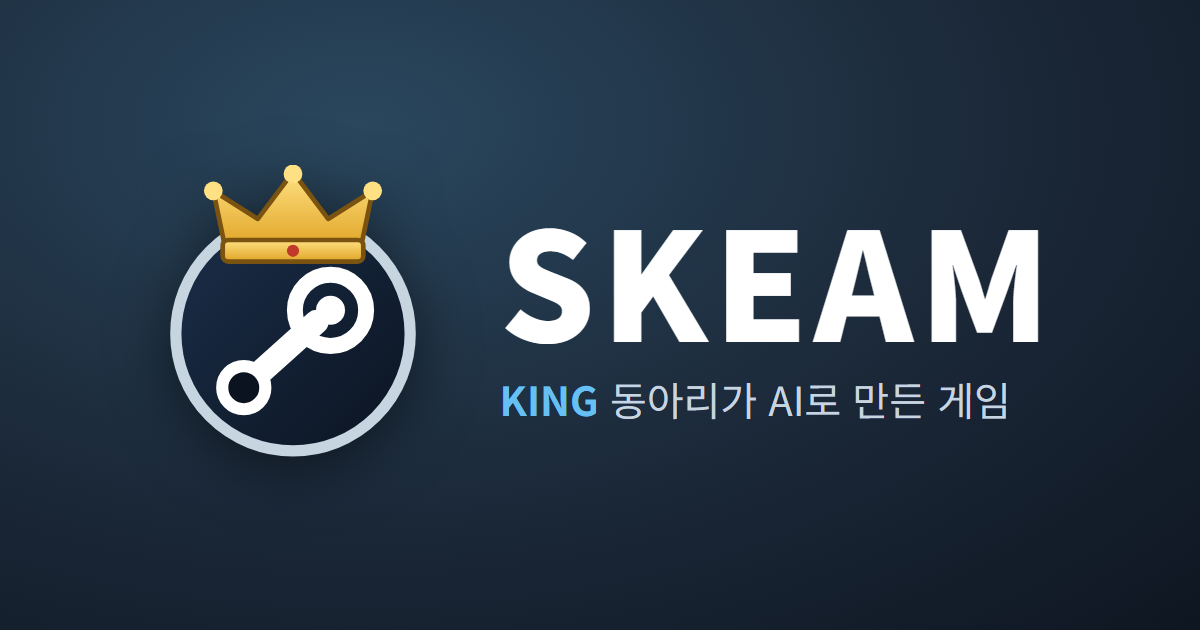
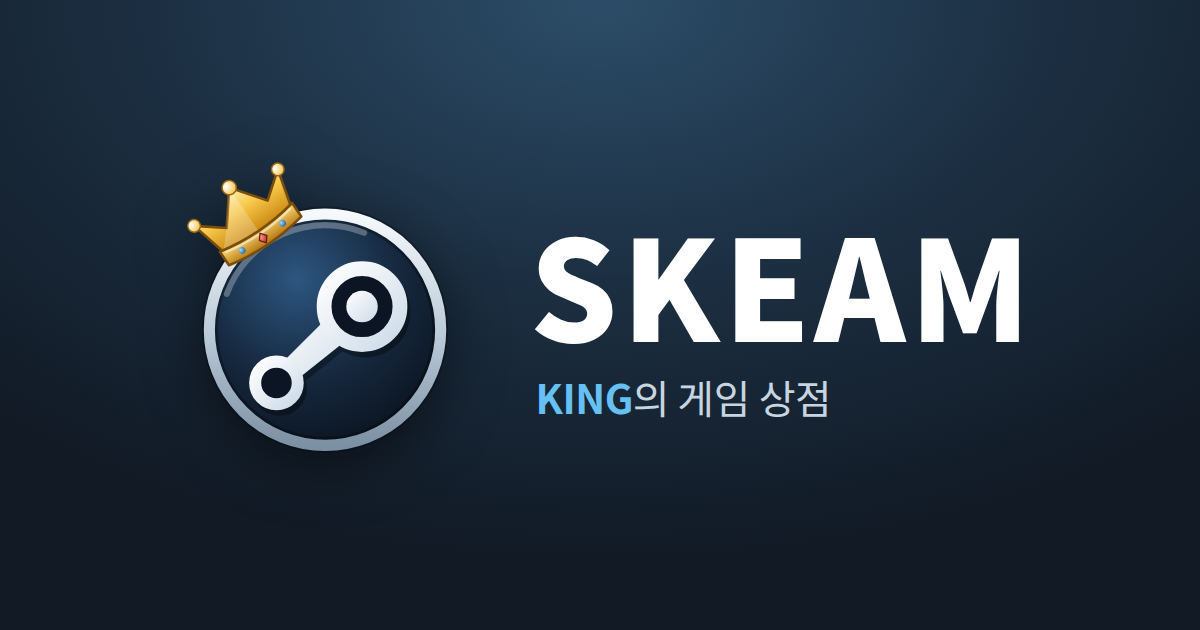
사이트 소개 문구를 'KING의 게임 상점'으로, SKEAM 아이콘 다시 그리기 (#23)
* 사이트 소개 문구: AI 게임 상점에서 KING 동아리 게임 상점으로

- KING 소개(커뮤니티): 동아리에서 받은 소개문 바탕으로 새로 씀
  (즐(KIN)거운 G(ame) 제작, 2011년 설립, 16기, 대표작, 목표). 한 줄 소개도 교체
- 카톡·디스코드 링크 카드: 설명 문구와 og.png("KING 게임 제작 동아리")를 바꾸고,
  og:image에 ?v=2를 붙여 새 그림을 다시 가져가게 함
- 첫 방문 계정 만들기 문구, README 첫 줄
- 게임 페이지 "AI 제작 정보"를 "제작 정보"로. AI 도구는 적은 게임에만 표시
- 등록 도우미: AI 도구 기본값(Claude Code) 없앰, "AI로 만들었다면" 안내
- 커뮤니티 머리글: 한 줄 소개가 오른쪽 왕관 아이콘에 가리지 않게 여백 추가

Claude-Session: https://claude.ai/code/session_01DRcvd7MQ8veMn4GcWrnbmF

* 링크 카드와 사이트 설명: 'KING의 게임 상점'으로 통일

카톡·디스코드 카드 이미지(og.png)와 설명, 사이트 description, README 첫 줄에서
'게임 제작 동아리' 수식어를 빼고 'KING의 게임 상점'으로 맞춤. 새 그림을
다시 가져가도록 og:image를 ?v=3으로 올림.

Claude-Session: https://claude.ai/code/session_01DRcvd7MQ8veMn4GcWrnbmF

* SKEAM 아이콘 다시 그리기: 미니 왕관을 비스듬히 얹고 질감 추가

- public/skeam-icon.svg: 원판에 은색 테두리와 가장자리 반사선, 막대가
  큰 관절 쪽으로 굵어지는 피스톤, 은은한 그림자. 왕관은 작게 줄여 원의
  왼쪽 위 테두리에 34도 기울여 얹고, 진주·사파이어·루비 장식
- 시작 애니메이션(Intro.tsx)도 같은 그림으로. 막대는 작은 관절에서
  자라나게 바꿈(채운 도형이라 선 그리기 애니메이션 대신)
- 카톡·디스코드 카드 이미지(og.png): 새 아이콘, 아이콘과 글자를 가운데로
  모음. og:image ?v=5

Claude-Session: https://claude.ai/code/session_01DRcvd7MQ8veMn4GcWrnbmF

---------

diff --git a/src/components/Intro.tsx b/src/components/Intro.tsx
@@ -125,16 +125,44 @@ export function Intro() {
     <div key={run} className={`intro ${leaving ? 'leaving' : ''}`} onPointerDown={() => setLeaving(true)} aria-hidden="true">
       <div className="intro-glow" />
       <div className="intro-stage">
-        <svg className="intro-mark" viewBox="-4 -6 72 72">
+        {/* Same drawing as public/skeam-icon.svg, split into parts that animate in. */}
+        <svg className="intro-mark" viewBox="-5.37 -4.54 70.84 70.84">
           <defs>
-            <linearGradient id="intro-disc" x1="0" y1="0" x2="1" y2="1">
-              <stop offset="0" stopColor="#1b2f4a" />
-              <stop offset="1" stopColor="#0b1320" />
+            <radialGradient id="intro-disc" cx="0.38" cy="0.28" r="0.85">
+              <stop offset="0" stopColor="#2d5680" />
+              <stop offset="0.5" stopColor="#16293f" />
+              <stop offset="1" stopColor="#090f19" />
+            </radialGradient>
+            <linearGradient id="intro-ring" x1="0" y1="0" x2="0" y2="1">
+              <stop offset="0" stopColor="#f5f9fc" />
+              <stop offset="0.55" stopColor="#b7c8d6" />
+              <stop offset="1" stopColor="#7c90a3" />
+            </linearGradient>
+            <linearGradient id="intro-metal" x1="0" y1="0" x2="1" y2="1">
+              <stop offset="0" stopColor="#ffffff" />
+              <stop offset="1" stopColor="#cddbe8" />
             </linearGradient>
             <linearGradient id="intro-gold" x1="0" y1="0" x2="0" y2="1">
-              <stop offset="0" stopColor="#ffe082" />
-              <stop offset="1" stopColor="#e0a526" />
+              <stop offset="0" stopColor="#fff1b8" />
+              <stop offset="0.45" stopColor="#f7c748" />
+              <stop offset="1" stopColor="#c88712" />
             </linearGradient>
+            <linearGradient id="intro-band" x1="0" y1="0" x2="0" y2="1">
+              <stop offset="0" stopColor="#fbdc7c" />
+              <stop offset="1" stopColor="#b3740c" />
+            </linearGradient>
+            <radialGradient id="intro-pearl" cx="0.35" cy="0.3" r="0.75">
+              <stop offset="0" stopColor="#ffffff" />
+              <stop offset="1" stopColor="#f1c44a" />
+            </radialGradient>
+            <radialGradient id="intro-ruby" cx="0.35" cy="0.3" r="0.75">
+              <stop offset="0" stopColor="#ff9a8f" />
+              <stop offset="1" stopColor="#a61f17" />
+            </radialGradient>
+            <radialGradient id="intro-sapphire" cx="0.35" cy="0.3" r="0.75">
+              <stop offset="0" stopColor="#9fdcff" />
+              <stop offset="1" stopColor="#1d63a6" />
+            </radialGradient>
             <linearGradient id="intro-shine" x1="0" y1="0" x2="1" y2="0">
               <stop offset="0" stopColor="#fff" stopOpacity="0" />
               <stop offset="0.5" stopColor="#fff" stopOpacity="0.85" />
@@ -142,26 +170,43 @@ export function Intro() {
             </linearGradient>
             <clipPath id="intro-clip">
               <circle cx="32" cy="36" r="26.2" />
-              <path d="M17.5 17.5 L15 5.5 L24.5 11.5 L32 1.5 L39.5 11.5 L49 5.5 L46.5 17.5 Z" />
-              <rect x="17" y="16" width="30" height="4.6" />
+              <path transform="translate(19.47 17.43) rotate(-34) scale(0.62)" d="M-14.2 -6.2 L-17.6 -19.4 L-8.6 -12.4 L0 -23.6 L8.6 -12.4 L17.6 -19.4 L14.2 -6.2 Q0 -3.4 -14.2 -6.2 Z" />
+              <path transform="translate(19.47 17.43) rotate(-34) scale(0.62)" d="M-15.2 -6.9 Q0 -3.8 15.2 -6.9 L15.2 -1.2 Q0 1.9 -15.2 -1.2 Z" />
             </clipPath>
           </defs>
           <circle className="i-pulse" cx="32" cy="36" r="25" />
-          <circle className="i-disc" cx="32" cy="36" r="25" fill="url(#intro-disc)" />
-          <circle className="i-ring" cx="32" cy="36" r="25" />
-          <path className="i-rod" d="M22.5 46.5 L37 33.5" />
-          <g className="i-big">
-            <circle cx="40" cy="31" r="7.6" fill="none" stroke="#fff" strokeWidth="3.4" />
-            <circle cx="40" cy="31" r="3.1" fill="#fff" />
+          <g className="i-disc">
+            <circle cx="32" cy="36" r="26.6" fill="#050910" opacity="0.35" />
+            <circle cx="32" cy="36" r="25" fill="url(#intro-disc)" />
+            <circle cx="32" cy="36" r="23.6" fill="none" stroke="#000" strokeOpacity="0.3" strokeWidth="0.8" />
           </g>
-          <circle className="i-small" cx="21.5" cy="47.5" r="4.6" fill="#0b1320" stroke="#fff" strokeWidth="2.6" />
-          <g className="i-crown">
-            <path d="M17.5 17.5 L15 5.5 L24.5 11.5 L32 1.5 L39.5 11.5 L49 5.5 L46.5 17.5 Z" fill="url(#intro-gold)" stroke="#7a5310" strokeWidth="1" strokeLinejoin="round" />
-            <rect x="17" y="16" width="30" height="4.6" rx="1.2" fill="url(#intro-gold)" stroke="#7a5310" strokeWidth="1" />
-            <circle className="i-gem" cx="15" cy="5.5" r="2" fill="#ffe082" />
-            <circle className="i-gem" cx="32" cy="1.9" r="2" fill="#ffe082" />
-            <circle className="i-gem" cx="49" cy="5.5" r="2" fill="#ffe082" />
-            <circle cx="32" cy="18.3" r="1.3" fill="#c0392b" />
+          <circle className="i-ring" cx="32" cy="36" r="25" />
+          <path className="i-edge" d="M10.76 28.27 A22.6 22.6 0 0 1 40.47 15.05" fill="none" stroke="#fff" strokeOpacity="0.28" strokeWidth="1.3" strokeLinecap="round" />
+          <g className="i-shadow" fill="#000" opacity="0.35" transform="translate(0.7 1.2)">
+            <path d="M22.97 49.14 L42.4 33.69 L37.6 28.31 L20.03 45.86 Z" />
+            <circle cx="40" cy="31" r="9.8" />
+            <circle cx="21.5" cy="47.5" r="5.9" />
+          </g>
+          <path className="i-rod" d="M22.97 49.14 L42.4 33.69 L37.6 28.31 L20.03 45.86 Z" fill="url(#intro-metal)" />
+          <g className="i-big">
+            <circle cx="40" cy="31" r="8.2" fill="#0b1524" stroke="url(#intro-metal)" strokeWidth="3.2" />
+            <circle cx="40" cy="31" r="3.4" fill="url(#intro-metal)" />
+          </g>
+          <circle className="i-small" cx="21.5" cy="47.5" r="4.6" fill="#0b1524" stroke="url(#intro-metal)" strokeWidth="2.6" />
+          {/* the transform sits on an outer group: the drop-in animation sets its own transform on .i-crown */}
+          <g transform="translate(19.47 17.43) rotate(-34) scale(0.62)">
+            <g className="i-crown">
+              <path d="M-14.2 -6.2 L-17.6 -19.4 L-8.6 -12.4 L0 -23.6 L8.6 -12.4 L17.6 -19.4 L14.2 -6.2 Q0 -3.4 -14.2 -6.2 Z" fill="url(#intro-gold)" stroke="#7a4d0b" strokeWidth="0.9" strokeLinejoin="round" />
+              <path d="M0 -23.6 L-8.6 -12.4 L-14.2 -6.2 Q-7 -4.8 0 -4.6 Z" fill="#fff" opacity="0.22" />
+              <path d="M-15.2 -6.9 Q0 -3.8 15.2 -6.9 L15.2 -1.2 Q0 1.9 -15.2 -1.2 Z" fill="url(#intro-band)" stroke="#7a4d0b" strokeWidth="0.9" strokeLinejoin="round" />
+              <path d="M-13.4 -5.6 Q0 -2.9 13.4 -5.6" fill="none" stroke="#fff" strokeOpacity="0.5" strokeWidth="0.8" strokeLinecap="round" />
+              <circle className="i-gem" cx="-17.6" cy="-19.4" r="2.2" fill="url(#intro-pearl)" stroke="#9a650c" strokeWidth="0.5" />
+              <circle className="i-gem" cx="0" cy="-23.6" r="2.5" fill="url(#intro-pearl)" stroke="#9a650c" strokeWidth="0.5" />
+              <circle className="i-gem" cx="17.6" cy="-19.4" r="2.2" fill="url(#intro-pearl)" stroke="#9a650c" strokeWidth="0.5" />
+              <circle cx="-8.5" cy="-2.9" r="1.15" fill="url(#intro-sapphire)" />
+              <circle cx="8.5" cy="-2.9" r="1.15" fill="url(#intro-sapphire)" />
+              <path d="M0 -4.4 L1.6 -2.4 L0 -0.3999999999999999 L-1.6 -2.4 Z" fill="url(#intro-ruby)" stroke="#6b120d" strokeWidth="0.4" />
+            </g>
           </g>
           <g clipPath="url(#intro-clip)">
             <rect className="i-shine" x="-30" y="-6" width="22" height="72" fill="url(#intro-shine)" transform="skewX(-20)" />

diff --git a/src/pages/AppPage.tsx b/src/pages/AppPage.tsx
@@ -206,46 +206,46 @@ function App({ g, site }: { g: Game; site: Site }) {
             </>
           )}
 
-          {/* A Steam release may not be an AI game at all; show the box only when there is something to say. */}
-          {(!g.steam || g.aiTools.length > 0 || g.devPeriod || g.aiNote) && (
-            <>
-              <h3 className="block-head" style={{ marginTop: 28 }}>
-                AI 제작 정보
-              </h3>
-              <div className="ai-box">
+          {/* Not every game here is made with AI: the AI line shows only when the creator named tools. */}
+          <>
+            <h3 className="block-head" style={{ marginTop: 28 }}>
+              제작 정보
+            </h3>
+            <div className="ai-box">
+              {g.aiTools.length > 0 && (
                 <div>
                   <div className="k">사용한 AI 도구</div>
-                  <div className="v">{g.aiTools.length ? g.aiTools.join(', ') : '적지 않음'}</div>
+                  <div className="v">{g.aiTools.join(', ')}</div>
                 </div>
-                <div>
-                  <div className="k">제작 기간</div>
-                  <div className="v">{g.devPeriod || '적지 않음'}</div>
-                </div>
-                {g.engine && (
-                  <div>
-                    <div className="k">엔진·도구</div>
-                    <div className="v">{g.engine}</div>
-                  </div>
-                )}
-                <div>
-                  <div className="k">실행 환경</div>
-                  <div className="v">
-                    {g.platform === 'windows'
-                      ? `Windows 64비트${g.downloadSize ? ` · ${g.downloadSize}` : ''}`
-                      : g.platform === 'steam'
-                        ? `Steam${steamOs(g) ? ` (${steamOs(g)})` : ''}`
-                        : '최신 크롬·엣지 브라우저'}
-                  </div>
-                </div>
-                {g.aiNote && (
-                  <div style={{ gridColumn: '1 / -1' }}>
-                    <div className="k">제작 후기</div>
-                    <div className="v">“{g.aiNote}”</div>
-                  </div>
-                )}
+              )}
+              <div>
+                <div className="k">제작 기간</div>
+                <div className="v">{g.devPeriod || '적지 않음'}</div>
               </div>
-            </>
-          )}
+              {g.engine && (
+                <div>
+                  <div className="k">엔진·도구</div>
+                  <div className="v">{g.engine}</div>
+                </div>
+              )}
+              <div>
+                <div className="k">실행 환경</div>
+                <div className="v">
+                  {g.platform === 'windows'
+                    ? `Windows 64비트${g.downloadSize ? ` · ${g.downloadSize}` : ''}`
+                    : g.platform === 'steam'
+                      ? `Steam${steamOs(g) ? ` (${steamOs(g)})` : ''}`
+                      : '최신 크롬·엣지 브라우저'}
+                </div>
+              </div>
+              {g.aiNote && (
+                <div style={{ gridColumn: '1 / -1' }}>
+                  <div className="k">제작 후기</div>
+                  <div className="v">“{g.aiNote}”</div>
+                </div>
+              )}
+            </div>
+          </>
 
           <div id="reviews">
             <Reviews endpoint={endpoint} gameId={g.id} title={g.title} />

diff --git a/src/pages/Register.tsx b/src/pages/Register.tsx
@@ -91,7 +91,7 @@ const empty: Form = {
   short: '',
   tags: '',
   controls: '',
-  aiTools: 'Claude Code',
+  aiTools: '',
   devPeriod: '',
   aiNote: '',
   engine: '',
@@ -441,14 +441,12 @@ function GameForm({ games, site, existing, existingAbout }: { games: Game[]; sit
             value={f.steam}
             onChange={(e) => {
               const v = e.target.value.trim()
-              // A Steam release isn't necessarily an AI game: drop the untouched default.
-              // Also the untouched ₩0 price, so the Steam price shows.
+              // Clear the untouched ₩0 price, so the Steam price shows.
               setF((x) => {
                 const fresh = STEAM_RE.test(v) && !STEAM_RE.test(x.steam)
                 return {
                   ...x,
                   steam: v,
-                  ...(fresh && x.aiTools === empty.aiTools ? { aiTools: '' } : {}),
                   ...(fresh && x.price === empty.price && x.discount === empty.discount ? { price: '', discount: '' } : {}),
                 }
               })
@@ -658,7 +656,9 @@ function GameForm({ games, site, existing, existingAbout }: { games: Game[]; sit
           </div>
           <div className="row2">
             <div className="field">
-              <label>사용한 AI 도구</label>
+              <label>
+                사용한 AI 도구 <small>AI로 만들었다면</small>
+              </label>
               <input value={f.aiTools} onChange={(e) => set('aiTools', e.target.value)} placeholder="Claude Code, Midjourney" />
             </div>
             <div className="field">
@@ -682,7 +682,7 @@ function GameForm({ games, site, existing, existingAbout }: { games: Game[]; sit
             <label>
               제작 후기 한 줄 <small>선택</small>
             </label>
-            <input value={f.aiNote} onChange={(e) => set('aiNote', e.target.value)} placeholder="AI한테 물리 엔진을 설명시키다 밤을 새웠다" />
+            <input value={f.aiNote} onChange={(e) => set('aiNote', e.target.value)} placeholder="마감 전날 보스전을 통째로 갈아엎었다" />
           </div>
         </Section>
 
@@ -969,7 +969,7 @@ function downloadTemplate(me: string) {
     tags: ['기본태그 목록에서 4~8개'],
     controls: '조작법 한 줄 (예: WASD 이동, 마우스 클릭)',
     engine: '엔진·도구 (예: Godot 4.7, Unity, HTML/JavaScript)',
-    ai_tools: ['Claude Code'],
+    ai_tools: ['AI로 만들었다면 사용한 AI 도구 (없으면 빈 목록)'],
     dev_period: '제작 기간 (예: 2주)',
     ai_note: '제작 후기 한 줄 (선택)',
     play_url: '브라우저 게임 주소 (예: https://아이디.github.io/게임/)',

diff --git a/src/styles/global.css b/src/styles/global.css
@@ -1955,6 +1955,8 @@ img {
 }
 .club-hero p {
   margin: 8px 0 0;
+  /* keep the line clear of the crown on the right */
+  padding-right: 190px;
   font-size: 18px;
   color: #c6d4df;
 }
@@ -3109,6 +3111,9 @@ button.account-pill {
     width: 70px;
     right: 14px;
   }
+  .club-hero p {
+    padding-right: 84px;
+  }
   .members {
     grid-template-columns: 1fr;
   }
@@ -3607,7 +3612,7 @@ button.account-pill {
 }
 .intro .i-ring {
   fill: none;
-  stroke: #c7d5e0;
+  stroke: url(#intro-ring);
   stroke-width: 2.4;
   stroke-linecap: round;
   /* real lengths, not pathLength: older iOS Safari ignores pathLength on <circle> */
@@ -3617,13 +3622,26 @@ button.account-pill {
   animation: i-draw 0.6s ease-in-out 0.25s forwards;
 }
 .intro .i-rod {
-  fill: none;
-  stroke: #fff;
-  stroke-width: 5.2;
-  stroke-linecap: round;
-  stroke-dasharray: 20;
-  stroke-dashoffset: 20;
-  animation: i-draw 0.3s ease-out 0.78s forwards;
+  /* grows out of the small joint toward the big one */
+  transform-box: view-box;
+  transform-origin: 21.5px 47.5px;
+  transform: scale(0);
+  animation: i-grow 0.3s ease-out 0.78s forwards;
+}
+@keyframes i-grow {
+  to {
+    transform: none;
+  }
+}
+.intro .i-edge,
+.intro .i-shadow {
+  opacity: 0;
+  animation: i-fade 0.4s ease-out 1s forwards;
+}
+@keyframes i-fade {
+  to {
+    opacity: 1;
+  }
 }
 @keyframes i-draw {
   to {

diff --git a/vite.config.ts b/vite.config.ts
@@ -17,13 +17,14 @@ function linkCard(): Plugin {
       }
       const meta = (property: string, content: string) => ({ tag: 'meta', attrs: { property, content }, injectTo: 'head' as const })
       return [
-        { tag: 'meta', attrs: { name: 'description', content: 'KING 동아리가 AI로 만든 게임을 모아 둔 상점' }, injectTo: 'head' },
+        { tag: 'meta', attrs: { name: 'description', content: 'KING의 게임 상점' }, injectTo: 'head' },
         meta('og:type', 'website'),
         meta('og:site_name', 'SKEAM'),
         meta('og:title', 'SKEAM'),
-        meta('og:description', 'KING 동아리가 AI로 만든 게임을 모아 둔 상점. 브라우저에서 바로 하거나 받아서 플레이'),
+        meta('og:description', 'KING의 게임 상점. 동아리 프로젝트부터 Steam 출시작까지 바로 플레이해 보세요'),
         meta('og:url', url),
-        meta('og:image', url + 'og.png'),
+        // ?v= makes KakaoTalk and Discord fetch the picture again when it changes.
+        meta('og:image', url + 'og.png?v=5'),
         meta('og:image:width', '1200'),
         meta('og:image:height', '630'),
         { tag: 'meta', attrs: { name: 'twitter:card', content: 'summary_large_image' }, injectTo: 'head' },

diff --git a/src/components/Chrome.tsx b/src/components/Chrome.tsx
@@ -480,7 +480,7 @@ export function ProfileGate() {
         <p style={{ marginTop: 0 }}>
           {existing
             ? 'SKEAM에 로그인 기능이 생겼어요. 비밀번호를 만들면 지금 이 브라우저의 지갑, 라이브러리, 플레이 기록이 계정에 저장되고, 컴퓨터·노트북·휴대폰 어디서든 이어서 쓸 수 있어요.'
-            : 'KING 동아리가 AI로 만든 게임을 둘러보고, 가짜 돈으로 사고, 바로 플레이하세요. 계정을 만들면 어느 기기에서든 이어서 쓸 수 있어요.'}
+            : 'KING의 게임을 둘러보고, 가짜 돈으로 사고, 바로 플레이하세요. 계정을 만들면 어느 기기에서든 이어서 쓸 수 있어요.'}
         </p>
       )}
       <form

diff --git a/club/about.md b/club/about.md
@@ -1,3 +1,9 @@
-KING은 AI와 함께 게임을 만드는 동아리입니다. 아이디어만 있으면 누구나 게임을 완성할 수 있다고 믿어요.
+KING은 **즐(KIN)거운 G(ame) 제작**의 줄임말이에요. 2011년에 세워진 공과대학 소속, 교내 유일의 게임 제작 동아리로 지금 16기가 함께하고 있어요.
 
-SKEAM은 우리가 만든 게임을 한곳에 모아 두는 상점입니다. 마음에 드는 게임을 골라 바로 플레이해 보세요.
+동아리 안에서 즐겁게 게임을 만들고, 세상에 알려 '모두가 즐길 수 있는 게임'이 되게 하는 것이 KING의 최종 목표이자 꿈이에요. 실제 게임 업계로 나아갈 인재를 키우는 것도 함께 바라보고 있어요.
+
+그렇게 'KILLA', '진정해요 공주님', '버스 멈춰', 'COY' 같은 게임이 KING에서 만들어져 세상에 공개됐고, 이 경험을 바탕으로 많은 선배님들이 게임 업계에 진출했어요. 앞으로도 늘 그래왔듯 KIN겁게 게임을 만들 거예요.
+
+### SKEAM
+
+SKEAM은 KING이 만든 게임을 한곳에 모아 두는 상점이에요. 동아리 프로젝트로 만든 게임, Steam에 출시한 게임, AI와 함께 빠르게 만든 게임까지 여기서 둘러보고 바로 플레이해 보세요.

diff --git a/README.md b/README.md
@@ -1,6 +1,6 @@
 # SKEAM
 
-KING 동아리가 AI로 만든 게임을 모아 두는 스팀 패러디 상점입니다. 서버 없이 GitHub Pages에서 돌아가고, 돈은 전부 가짜입니다.
+KING의 게임 상점(스팀 패러디). 동아리 프로젝트, Steam 출시작, AI로 빠르게 만든 게임까지 올릴 수 있음. 서버 없이 GitHub Pages에서 돌아가고, 돈은 전부 가짜임.
 
 ## 게임 등록 (동아리원용)
 
